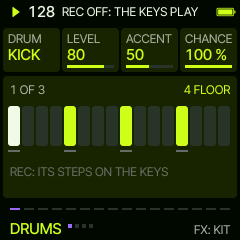
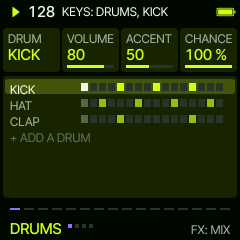
DRUMS: every drum a row, the one KNOB 1 picked lit
Claude-Session: https://claude.ai/code/session_01VgesZgNNDFiPGvKyDTZVUK

diff --git a/firmware/src/sa_ui.c b/firmware/src/sa_ui.c
@@ -1018,39 +1018,32 @@ static void sv_panel_synth_home(sa_ui *u)
     sv_label(10, 88, "FX: VOLUME, SOUND AND MORE", T_DIM);
 }
 
-/* DRUMS: the drum KNOB 1 picked, large: which of how many, its pattern, its 16 steps (what plays, or what SEQ drops) */
+/* DRUMS: every drum a row (its name, its bar, the bar playing through it), KNOB 1's pick lit; + ADD A DRUM last */
 static void sv_panel_drums(sa_ui *u)
 {
     sa_groove *g = u->g;
-    int rows[SA_LAYERS], n = sv_drum_rows(u, rows), now = sv_now(g), l = u->layer;
-    char t[24], a[8];
-    if (l < 0) {
-        cv_text_on(10, 14, &AF_M, "+ ADD A DRUM", T_THEME, T_SURF);
-        sv_label(10, 50, "ALGORITHM: WHICH DRUM", T_MID);
-        sv_label(10, 66, "SEQ DROPS IT IN", T_DIM);
-        return;
+    int rows[SA_LAYERS], n = sv_drum_rows(u, rows), total = sv_drow_count(u), now = sv_now(g);
+    int vis = 7, first = u->drow >= vis ? u->drow - vis + 1 : 0;
+    cv_rrect(5, 5 + (u->drow - first) * 16 - 2, 230, 15, 3, ux_mix(T_SURF, T_THEME, 22), T_SURF);   /* (first: under it all) */
+    for (int i = first; i < total && i < first + vis; ++i) {
+        int32_t y = 5 + (i - first) * 16;
+        bool sel = i == u->drow;
+        uint16_t bg = sel ? ux_mix(T_SURF, T_THEME, 22) : T_SURF;
+        if (i >= n) {
+            cv_text_on(10, y + 1, &AF_S, "+ ADD A DRUM", sel ? T_TEXT : T_DIM, bg);
+            if (sel) cv_text_r(230, y + 1, &AF_S, "ALGORITHM: WHICH", T_MID, bg);
+            continue;
+        }
+        int l = rows[i];
+        const sa_code *e = &g->ed[l];
+        bool pend = sa_layer_pending(g, l), mute = g->s.live[l].mute, gone = e->type == SA_T_NONE;
+        bool off = e->pat == SA_PAT_OFF && !e->own;
+        cv_free_text(10, y + 1, &AF_S, sv_layer_name(u, l), mute || gone || off ? T_DIM : sel ? T_TEXT : T_MID, bg, 64);
+        uint16_t bits = gone || off ? 0 : sv_ed_bits(u, l);
+        sv_strip(80, y + 2, 152, 8, bits, now, pend ? T_ACCENT : sel ? T_THEME : ux_mix(T_SURF, T_THEME, 70),
+                 mute || gone);
+        if (mute) cv_rect(80, y + 5, 152, 2, T_ACCENT);
     }
-    const sa_code *e = &g->ed[l];
-    bool pend = sa_layer_pending(g, l), mute = g->s.live[l].mute;
-    sv_fmt_int(t, u->drow + 1);
-    sv_cat(t, " OF ", sizeof t);
-    sv_fmt_int(a, n);
-    sv_cat(t, a, sizeof t);
-    sv_label(10, 6, t, T_MID);
-    if (e->type == SA_T_NONE) sv_cpy(t, "REMOVED", sizeof t);
-    else sa_pat_label(e, t, sizeof t);
-    cv_text_r(230, 6, &AF_S, mute ? "MUTED" : t, mute || pend ? T_ACCENT : T_THEME, T_SURF);
-    uint16_t bits = e->type == SA_T_NONE || (e->pat == SA_PAT_OFF && !e->own) ? 0 : sv_ed_bits(u, l);
-    for (int k = 0; k < 16; ++k) {
-        int32_t x = 8 + k * 14;
-        bool on = (bits >> k) & 1u;
-        uint16_t c = on ? (mute ? T_DIM : pend ? T_ACCENT : T_THEME) : sv_well();
-        if (k == now) c = on ? T_TEXT : ux_mix(T_SURF, T_TEXT, 30);
-        cv_rrect(x, 30, 12, 40, 3, c, T_SURF);
-        if (k % 4 == 0) cv_rect(x, 74, 12, 2, T_DIM);
-    }
-    sv_label(10, 88, pend ? "SEQ DROPS IT IN" : u->rec ? "KEYS: ITS STEPS" : "REC: ITS STEPS ON THE KEYS",
-             pend ? T_ACCENT : T_DIM);
 }
 
 static void sv_panel_layer(sa_ui *u)

diff --git a/docs/MANUAL.md b/docs/MANUAL.md
@@ -110,8 +110,8 @@ pattern the layer's own (MY STEPS); like a pattern, the steps wait for SEQ, and 
 <img src="screens/kit.png" alt="KIT" width="200">
 </p>
 
-DRUMS shows the drum KNOB 1 picked, large: which of how many, its pattern and its 16 steps (HOME shows them all). The
-home page: **DRUM** (which drum; the last
+DRUMS shows every drum, a row each with its bar (the second colour: waiting for SEQ), the one KNOB 1 picked lit; the
+cards are that drum's. The home page: **DRUM** (which drum; the last
 one, **+ ADD**, adds one), **VOLUME**, **ACCENT** (how hard the accented steps hit against the rest; 50: as written)
 and **CHANCE** (how likely each hit plays: 100 % always, lower and it drops out at random). ALGORITHM turns the drum's
 pattern: OFF, the patterns, and left of OFF, REMOVE. On + ADD it picks the drum (KICK SNARE CLAP HAT OPEN HAT RIDE
